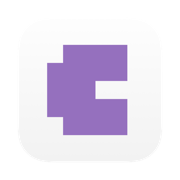
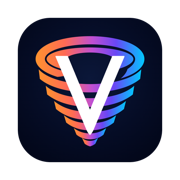
fix(webui): replace remaining Craft branding with Vorno on login/PWA
The WebUI still shipped Craft assets and copy in a few spots:
- favicon.svg / favicon.ico / apple-touch-icon.png / icon-192 / icon-512
  were the Craft "C" mark → regenerated from the Vorno app icon, so the
  Add-to-Home-Screen / PWA icon is now the Vorno tornado, not the "C".
- Login page now shows the Vorno logo above the title.
- Login copy aligned with Settings ("Web UI" / "Password"): subtitle is
  "Enter your Vorno Web UI password to continue", field label "Password",
  placeholder "Web UI password" (was "Enter CRAFT_SERVER_TOKEN").

Wire-layer identifiers (CRAFT_SERVER_TOKEN env var, etc.) are unchanged.

diff --git a/apps/webui/src/login.html b/apps/webui/src/login.html
@@ -95,6 +95,15 @@
       -webkit-backdrop-filter: blur(24px) saturate(140%);
     }
 
+    .logo {
+      width: 64px;
+      height: 64px;
+      margin: 0 auto 16px;
+      display: block;
+      border-radius: 16px;
+      box-shadow: 0 8px 24px rgba(41, 25, 63, 0.22);
+    }
+
     h1 {
       font-size: 20px;
       font-weight: 600;
@@ -225,16 +234,17 @@
 </head>
 <body>
   <div class="card">
+    <img class="logo" src="./favicon.svg" alt="Vorno" width="64" height="64" />
     <h1>Vorno</h1>
-    <p class="subtitle">Enter your server token to continue</p>
+    <p class="subtitle">Enter your Vorno Web UI password to continue</p>
 
     <form id="login-form">
-      <label for="password">Server Token</label>
+      <label for="password">Password</label>
       <input
         id="password"
         name="password"
         type="password"
-        placeholder="Enter CRAFT_SERVER_TOKEN"
+        placeholder="Web UI password"
         autocomplete="current-password"
         autofocus
         required
